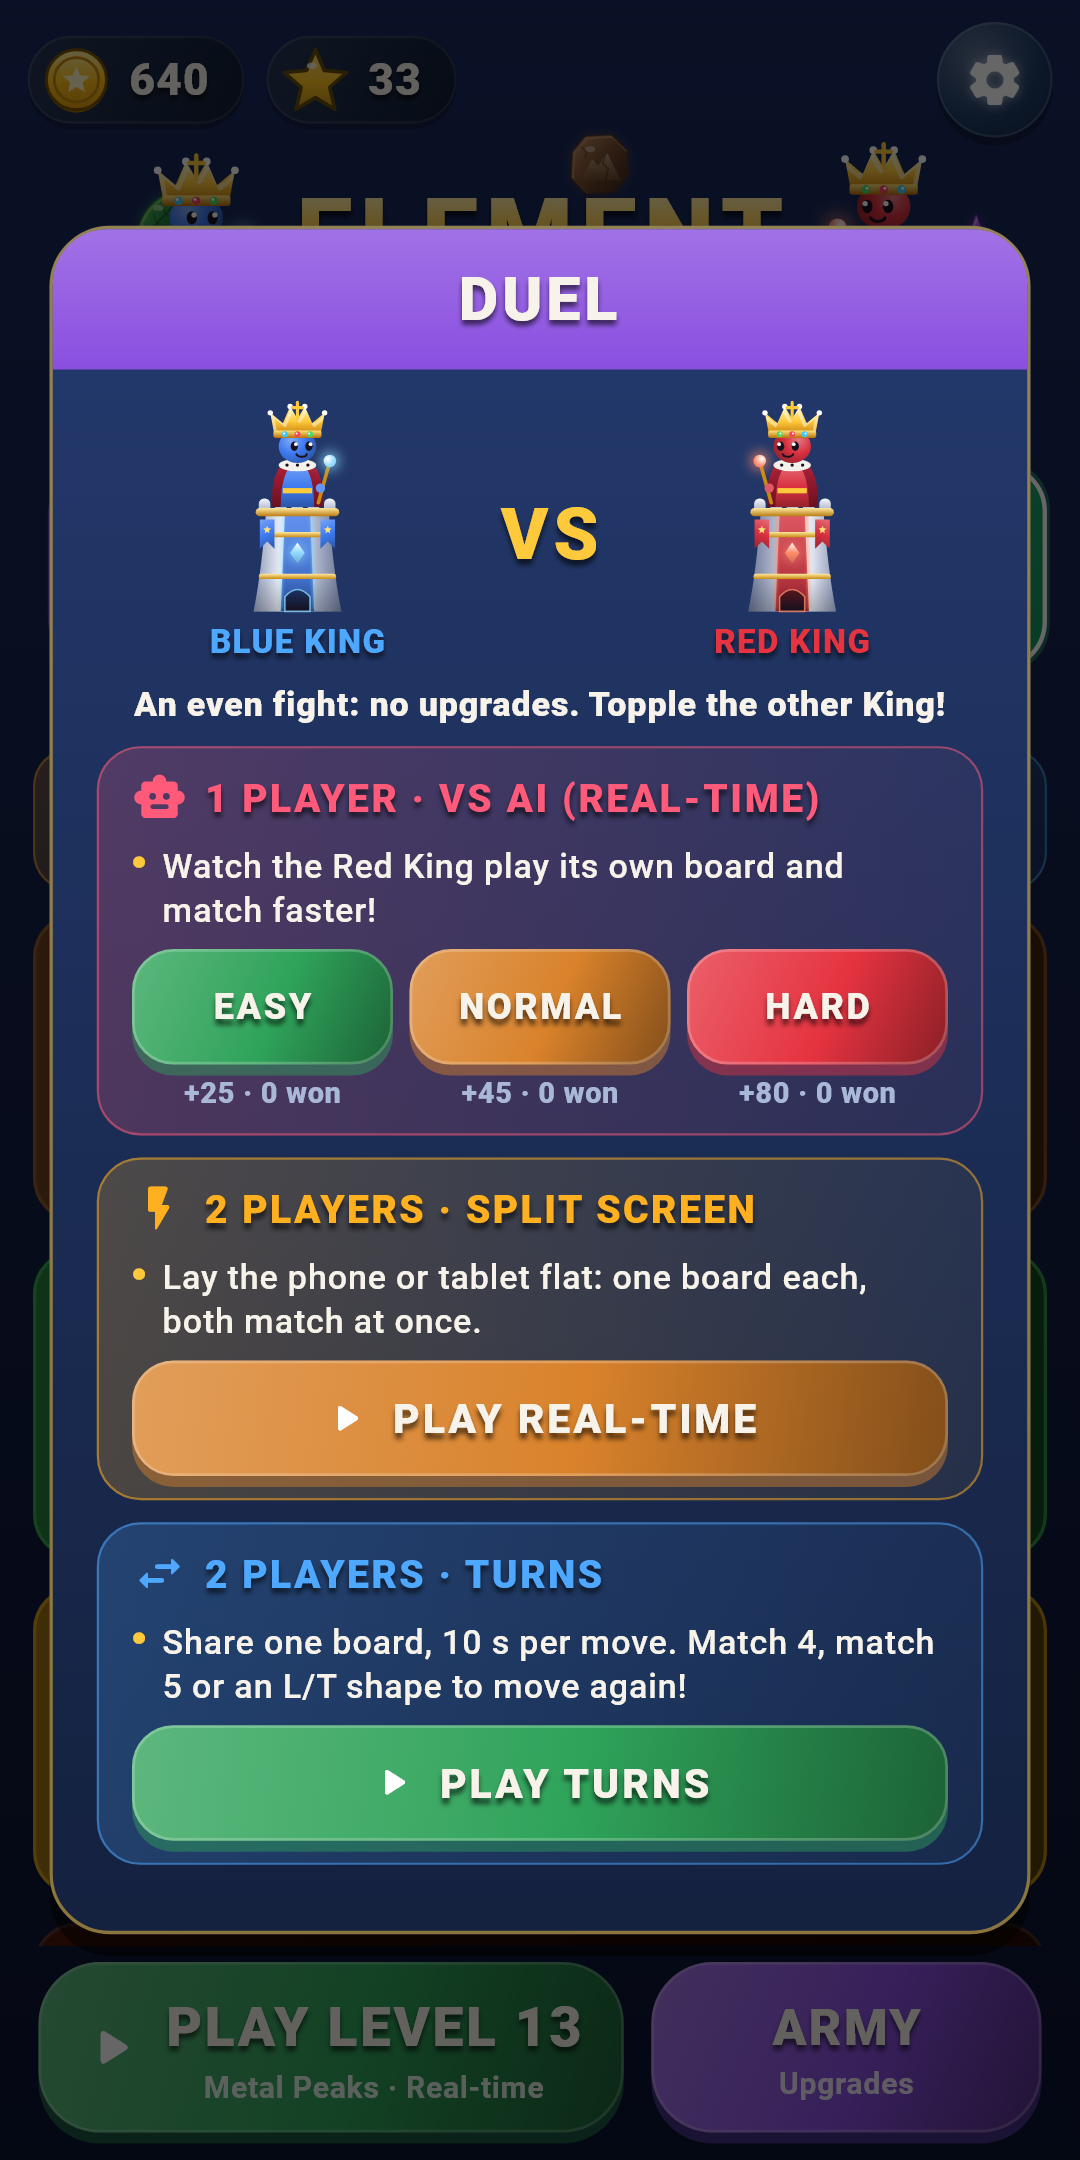
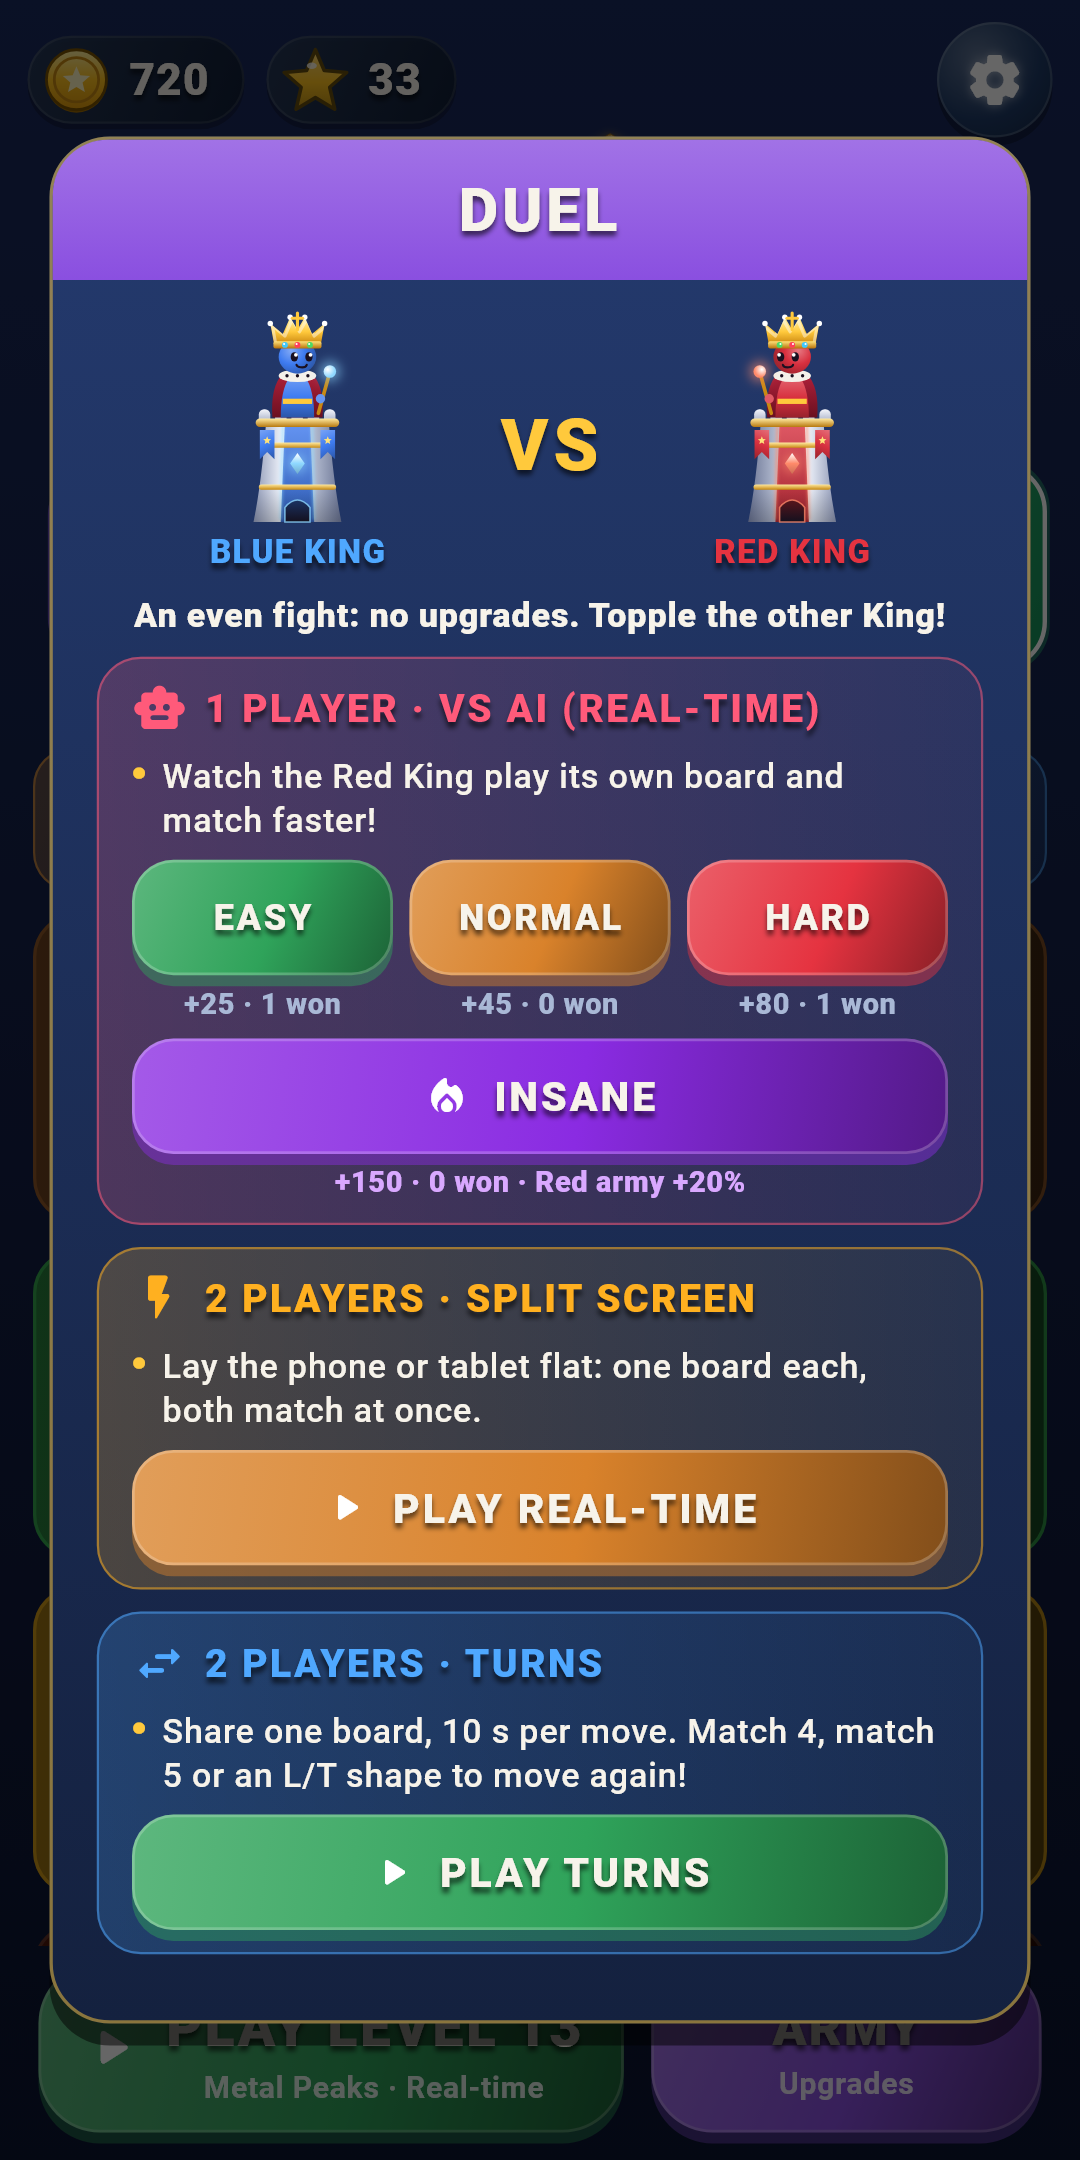
Element Kings 1.8: INSANE AI

diff --git a/elementkings/index.html b/elementkings/index.html
@@ -59,7 +59,7 @@
     <div class="card"><div class="emoji">🏆</div><h3>Endless Arena and daily quests</h3>
       <p>Arena rounds get harder and harder while your King's health carries over. The best runs go on the Hall of Fame. Three new quests every day for bonus coins.</p></div>
     <div class="card"><div class="emoji">⚔</div><h3>Duel: vs AI or 2 players</h3>
-      <p>Duel the AI Red King in real time (Easy, Normal or Hard) while it plays its own board above yours, or challenge a friend: take turns on one shared board, or lay the phone or tablet flat for a real-time split-screen duel with one board each. An even fight with no upgrades, just skill.</p></div>
+      <p>Duel the AI Red King in real time (Easy, Normal or Hard, then unlock INSANE) while it plays its own board above yours, or challenge a friend: take turns on one shared board, or lay the phone or tablet flat for a real-time split-screen duel with one board each. An even fight with no upgrades, just skill.</p></div>
     <div class="card"><div class="emoji">🗺</div><h3>30 battles, 6 realms</h3>
       <p>From Earth Valley to the Magic Castle. Each realm favours its element, so pick the right counters.</p></div>
     <div class="card"><div class="emoji">⬆</div><h3>Upgrade and play offline</h3>
@@ -84,6 +84,7 @@
     <img src="img/screen-15.png" alt="Arena Hall of Fame" loading="lazy">
     <img src="img/screen-16.png" alt="Real-time split-screen duel: one board each" loading="lazy">
     <img src="img/screen-17.png" alt="Duel vs the AI Red King" loading="lazy">
+    <img src="img/screen-18.png" alt="INSANE AI unlocked" loading="lazy">
   </div>
 </main>
 <footer>
